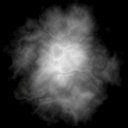
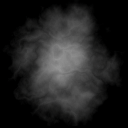
update smoke particles for player and elite

diff --git a/testwin/src/NpcDirector.cpp b/testwin/src/NpcDirector.cpp
@@ -36,6 +36,7 @@ source distribution.
 #include <crogine/ecs/systems/CommandSystem.hpp>
 #include <crogine/ecs/components/Transform.hpp>
 #include <crogine/ecs/components/Model.hpp>
+#include <crogine/ecs/components/ParticleEmitter.hpp>
 #include <crogine/ecs/Scene.hpp>
 #include <crogine/util/Random.hpp>
 #include <crogine/util/Constants.hpp>
@@ -133,10 +134,20 @@ void NpcDirector::handleMessage(const cro::Message& msg)
                 };
                 sendCommand(cmd);
             }
+            else if (data.npcType == Npc::Elite)
+            {
+                cro::Command cmd;
+                cmd.targetFlags = CommandID::Elite;
+                cmd.action = [](cro::Entity entity, cro::Time)
+                {
+                    entity.getComponent<cro::ParticleEmitter>().stop();
+                };
+                sendCommand(cmd);
+            }
 
             break;
         case NpcEvent::FiredWeapon:
-            //if a wever fired reset all the other times to prevent more than one
+            //if a weaver fired reset all the other times to prevent more than one
             //part of the weaver firing at once
             if (data.npcType == Npc::Weaver)
             {
@@ -150,6 +161,32 @@ void NpcDirector::handleMessage(const cro::Message& msg)
                 };
                 sendCommand(cmd);
             }
+            break;
+        case NpcEvent::HealthChanged:
+        {
+            if (data.npcType == Npc::Elite)
+            {
+                //update the smoke effects
+                float health = data.value;
+
+                cro::Command cmd;
+                cmd.targetFlags = CommandID::Elite;
+                cmd.action = [health](cro::Entity entity, cro::Time)
+                {
+                    float amount = (1.f - (health / 100.f));
+                    if (amount > 0)
+                    {
+                        entity.getComponent<cro::ParticleEmitter>().emitterSettings.emitRate = amount * entity.getComponent<Npc>().elite.maxEmitRate;
+                        entity.getComponent<cro::ParticleEmitter>().start();
+                    }
+                    else
+                    {
+                        entity.getComponent<cro::ParticleEmitter>().stop();
+                    }
+                };
+                sendCommand(cmd);
+            }
+        }
             break;
         }
     }
@@ -182,6 +219,13 @@ void NpcDirector::process(cro::Time dt)
 
                 auto& tx = entity.getComponent<cro::Transform>();
                 tx.setPosition({ 5.6f, cro::Util::Random::value(-2.f, 2.f) , zDepth });
+
+                auto* msg = postMessage<NpcEvent>(MessageID::NpcMessage);
+                msg->type = NpcEvent::HealthChanged;
+                msg->npcType = status.type;
+                msg->position = entity.getComponent<cro::Transform>().getWorldPosition();
+                msg->entityID = entity.getIndex();
+                msg->value = status.health;
             }
         };
         sendCommand(cmd);
@@ -195,7 +239,7 @@ void NpcDirector::process(cro::Time dt)
 
         cro::Command cmd;
         cmd.targetFlags = CommandID::Choppa;
-        cmd.action = [vertical](cro::Entity entity, cro::Time)
+        cmd.action = [this, vertical](cro::Entity entity, cro::Time)
         {
             auto& status = entity.getComponent<Npc>();
             if (!status.active)
@@ -220,6 +264,13 @@ void NpcDirector::process(cro::Time dt)
                     tx.setPosition({ 7.f + (status.choppa.ident * ChoppaNavigator::spacing), yPos, zDepth });
                 }
                 tx.setRotation({ -cro::Util::Const::PI / 2.f, 0.f, 0.f });
+
+                auto* msg = postMessage<NpcEvent>(MessageID::NpcMessage);
+                msg->type = NpcEvent::HealthChanged;
+                msg->npcType = status.type;
+                msg->position = entity.getComponent<cro::Transform>().getWorldPosition();
+                msg->entityID = entity.getIndex();
+                msg->value = status.health;
             }
         };
         sendCommand(cmd);
@@ -230,7 +281,7 @@ void NpcDirector::process(cro::Time dt)
     {
         cro::Command cmd;
         cmd.targetFlags = CommandID::Speedray;
-        cmd.action = [](cro::Entity entity, cro::Time)
+        cmd.action = [this](cro::Entity entity, cro::Time)
         {
             auto& status = entity.getComponent<Npc>();
             if (!status.active)
@@ -241,6 +292,13 @@ void NpcDirector::process(cro::Time dt)
                 //reset position
                 auto& tx = entity.getComponent<cro::Transform>();
                 tx.setPosition({ 7.f + static_cast<float>(status.speedray.ident) * SpeedrayNavigator::spacing, 0.f, zDepth });
+
+                auto* msg = postMessage<NpcEvent>(MessageID::NpcMessage);
+                msg->type = NpcEvent::HealthChanged;
+                msg->npcType = status.type;
+                msg->position = entity.getComponent<cro::Transform>().getWorldPosition();
+                msg->entityID = entity.getIndex();
+                msg->value = status.health;
             }
         };
         sendCommand(cmd);
@@ -256,7 +314,7 @@ void NpcDirector::process(cro::Time dt)
 
         cro::Command cmd;
         cmd.targetFlags = CommandID::Weaver;
-        cmd.action = [yPos](cro::Entity entity, cro::Time) 
+        cmd.action = [this, yPos](cro::Entity entity, cro::Time) 
         {
             auto& status = entity.getComponent<Npc>();
             if (!status.active)
@@ -271,6 +329,13 @@ void NpcDirector::process(cro::Time dt)
 
                 auto& tx = entity.getComponent<cro::Transform>();
                 tx.setPosition({ 7.f + (static_cast<float>(status.weaver.ident) * (WeaverNavigator::spacing * tx.getScale().x)), status.weaver.yPos, zDepth });
+
+                auto* msg = postMessage<NpcEvent>(MessageID::NpcMessage);
+                msg->type = NpcEvent::HealthChanged;
+                msg->npcType = status.type;
+                msg->position = entity.getComponent<cro::Transform>().getWorldPosition();
+                msg->entityID = entity.getIndex();
+                msg->value = status.health;
             }
         };
         sendCommand(cmd);

diff --git a/testwin/src/NpcSystem.cpp b/testwin/src/NpcSystem.cpp
@@ -37,6 +37,7 @@ source distribution.
 #include <crogine/ecs/components/Model.hpp>
 #include <crogine/ecs/components/Transform.hpp>
 #include <crogine/ecs/components/PhysicsObject.hpp>
+#include <crogine/ecs/components/ParticleEmitter.hpp>
 #include <crogine/ecs/Scene.hpp>
 #include <crogine/util/Random.hpp>
 #include <crogine/util/Wavetable.hpp>
@@ -125,6 +126,15 @@ void NpcSystem::process(cro::Time dt)
                         const auto& weapon = otherEnt.getComponent<PlayerWeapon>();
                         status.health -= weapon.damage;
                         
+                        {
+                            auto* msg = postMessage<NpcEvent>(MessageID::NpcMessage);
+                            msg->type = NpcEvent::HealthChanged;
+                            msg->npcType = status.type;
+                            msg->position = entity.getComponent<cro::Transform>().getWorldPosition();
+                            msg->entityID = entity.getIndex();
+                            msg->value = status.health;
+                        }
+
                         if (status.health < 0)
                         {
                             //raise a message 
@@ -279,7 +289,7 @@ void NpcSystem::processChoppa(cro::Entity entity)
         status.choppa.shootTime -= fixedUpdate;
         if (status.choppa.shootTime < 0)
         {
-            status.choppa.shootTime = status.choppa.nextShootTime;
+            status.choppa.shootTime = ChoppaNavigator::nextShootTime;
 
             auto* msg = postMessage<NpcEvent>(MessageID::NpcMessage);
             msg->entityID = entity.getIndex();
@@ -325,7 +335,7 @@ void NpcSystem::processSpeedray(cro::Entity entity)
     status.speedray.shootTime -= fixedUpdate;
     if (status.speedray.shootTime < 0)
     {
-        status.speedray.shootTime = status.speedray.nextShootTime;
+        status.speedray.shootTime = SpeedrayNavigator::nextShootTime;
 
         auto* msg = postMessage<NpcEvent>(MessageID::NpcMessage);
         msg->entityID = entity.getIndex();
@@ -398,6 +408,7 @@ void NpcSystem::onEntityAdded(cro::Entity entity)
         status.elite.movementCount = cro::Util::Random::value(4, 8);
         status.elite.pauseTime = cro::Util::Random::value(1.2f, 2.2f);
         status.elite.idleIndex = cro::Util::Random::value(0, m_eliteIdlePositions.size());
+        status.elite.maxEmitRate = entity.getComponent<cro::ParticleEmitter>().emitterSettings.emitRate;
         break;
     case Npc::Choppa:
         status.choppa.moveSpeed = cro::Util::Random::value(-8.3f, -7.8f);

diff --git a/testwin/src/PlayerSystem.cpp b/testwin/src/PlayerSystem.cpp
@@ -39,6 +39,7 @@ source distribution.
 #include <crogine/ecs/components/Transform.hpp>
 #include <crogine/ecs/components/PhysicsObject.hpp>
 #include <crogine/ecs/components/Sprite.hpp>
+#include <crogine/ecs/components/ParticleEmitter.hpp>
 
 #include <glm/gtx/norm.hpp>
 
@@ -159,14 +160,19 @@ void PlayerSystem::updateAlive(cro::Entity entity)
         else if ((otherPo.getCollisionGroups() & (CollisionID::NpcLaser)) != 0)
         {
             //subtract health based on weapon type.
+            auto& playerInfo = entity.getComponent<PlayerInfo>();
             if (otherEnt.hasComponent<NpcWeapon>()) //lasers are parented, and weapon is on that entity
             {
-                entity.getComponent<PlayerInfo>().health -= otherEnt.getComponent<NpcWeapon>().damage;
+                playerInfo.health -= otherEnt.getComponent<NpcWeapon>().damage;
             }
             else
             {
-                entity.getComponent<PlayerInfo>().health = 0.f; //lasers are one hit kill
+                playerInfo.health = 0.f; //lasers are one hit kill
             }
+            auto* msg = postMessage<PlayerEvent>(MessageID::PlayerMessage);
+            msg->entityID = entity.getIndex();
+            msg->type = PlayerEvent::HealthChanged;
+            msg->value = playerInfo.health;
         }
         else if ((otherPo.getCollisionGroups() & (CollisionID::Collectable)) != 0)
         {
@@ -210,6 +216,8 @@ void PlayerSystem::updateDying(cro::Entity entity)
         entity.getComponent<Velocity>().velocity = glm::vec3();
         entity.getComponent<PlayerInfo>().state = PlayerInfo::State::Dead;
         m_respawnTime = 1.f;
+
+        entity.getComponent<cro::ParticleEmitter>().stop();
     }
 }
 
@@ -222,4 +230,9 @@ void PlayerSystem::updateDead(cro::Entity entity)
         entity.getComponent<PlayerInfo>().state = PlayerInfo::State::Spawning;
         m_shieldTime = shieldTime;
     }
+}
+
+void PlayerSystem::onEntityAdded(cro::Entity entity)
+{
+    entity.getComponent<PlayerInfo>().maxParticleRate = entity.getComponent<cro::ParticleEmitter>().emitterSettings.emitRate;
 }

diff --git a/testwin/src/PlayerDirector.cpp b/testwin/src/PlayerDirector.cpp
@@ -37,6 +37,7 @@ source distribution.
 #include <crogine/ecs/systems/CommandSystem.hpp>
 #include <crogine/ecs/Scene.hpp>
 #include <crogine/ecs/components/Camera.hpp>
+#include <crogine/ecs/components/ParticleEmitter.hpp>
 #include <crogine/core/Clock.hpp>
 #include <crogine/core/App.hpp>
 #include <crogine/core/GameController.hpp>
@@ -79,6 +80,33 @@ PlayerDirector::PlayerDirector()
 }
 
 //public
+void PlayerDirector::handleMessage(const cro::Message& msg)
+{
+    if (msg.id == MessageID::PlayerMessage)
+    {
+        const auto& data = msg.getData<PlayerEvent>();
+        switch (data.type)
+        {
+        default: break;
+        case PlayerEvent::HealthChanged:
+            //update the smoke effect
+        {
+            float health = data.value;
+            cro::Command cmd;
+            cmd.targetFlags = CommandID::Player;
+            cmd.action = [health](cro::Entity entity, cro::Time)
+            {
+                const auto& playerInfo = entity.getComponent<PlayerInfo>();
+                float emitRate = std::max((1.f - (health / 100.f)) * playerInfo.maxParticleRate, 0.f);
+                entity.getComponent<cro::ParticleEmitter>().emitterSettings.emitRate = emitRate;
+                entity.getComponent<cro::ParticleEmitter>().start();
+            };
+            sendCommand(cmd);
+        }
+        break;
+        }
+    }
+}
 void PlayerDirector::handleEvent(const cro::Event& evt)
 {
     switch (evt.type)

diff --git a/testwin/src/GameState.cpp b/testwin/src/GameState.cpp
@@ -483,7 +483,6 @@ void GameState::loadModels()
     entity.getComponent<cro::PhysicsObject>().setCollisionGroups(CollisionID::NPC);
     entity.getComponent<cro::PhysicsObject>().setCollisionFlags(CollisionID::Player | CollisionID::PlayerLaser);
     entity.addComponent<cro::ParticleEmitter>().emitterSettings = smokeEmitter;
-    entity.addComponent<cro::ParticleEmitter>().start();
 
     weaponEntity = m_scene.createEntity(); //weapon sprites are added below
     weaponEntity.addComponent<cro::Transform>().setParent(entity);
@@ -749,6 +748,7 @@ void GameState::loadWeapons()
     laserEnt.getComponent<cro::Transform>().setOrigin({ size.x, size.y / 2.f, 0.f });
     laserEnt.getComponent<cro::Transform>().setPosition({ 0.f, -50.f, 0.f });
 
+    laserPhys.extent.x = -laserPhys.extent.x;
     laserEnt.addComponent<cro::PhysicsObject>().setCollisionGroups(CollisionID::NpcLaser);
     laserEnt.getComponent<cro::PhysicsObject>().setCollisionFlags(CollisionID::Player);
     laserEnt.getComponent<cro::PhysicsObject>().addShape(laserPhys);

diff --git a/testwin/src/PlayerSystem.hpp b/testwin/src/PlayerSystem.hpp
@@ -40,6 +40,7 @@ struct PlayerInfo final
     }state = State::Spawning;
     cro::uint32 shieldEntity = 0;
     float health = 100.f;
+    float maxParticleRate = 0.f;
 };
 
 class PlayerSystem final : public cro::System
@@ -59,6 +60,8 @@ private:
     void updateAlive(cro::Entity);
     void updateDying(cro::Entity);
     void updateDead(cro::Entity);
+
+    void onEntityAdded(cro::Entity) override;
 };
 
 #endif //TL_PLAYER_SYSTEM_HPP_

diff --git a/testwin/src/Messages.hpp b/testwin/src/Messages.hpp
@@ -95,11 +95,13 @@ struct NpcEvent
     {
         Died,
         FiredWeapon,
+        HealthChanged,
         ExitScreen
     }type;
     cro::int32 npcType = -1;
     glm::vec3 position;
     glm::vec3 velocity;
+    float value = 0.f;
     cro::uint32 entityID = 0;
 };
 

diff --git a/testwin/src/PlayerDirector.hpp b/testwin/src/PlayerDirector.hpp
@@ -41,7 +41,7 @@ public:
     PlayerDirector();
 
     void handleEvent(const cro::Event&) override;
-    void handleMessage(const cro::Message&) override {};
+    void handleMessage(const cro::Message&) override;
     void process(cro::Time) override;
 
 private:

diff --git a/testwin/src/NPCSystem.hpp b/testwin/src/NPCSystem.hpp
@@ -44,6 +44,7 @@ struct EliteNavigator final
     cro::uint16 movementCount = 5;
     float firetime = 4.f;
     std::size_t idleIndex = 0;
+    float maxEmitRate = 0.f;
 };
 
 struct ChoppaNavigator final
